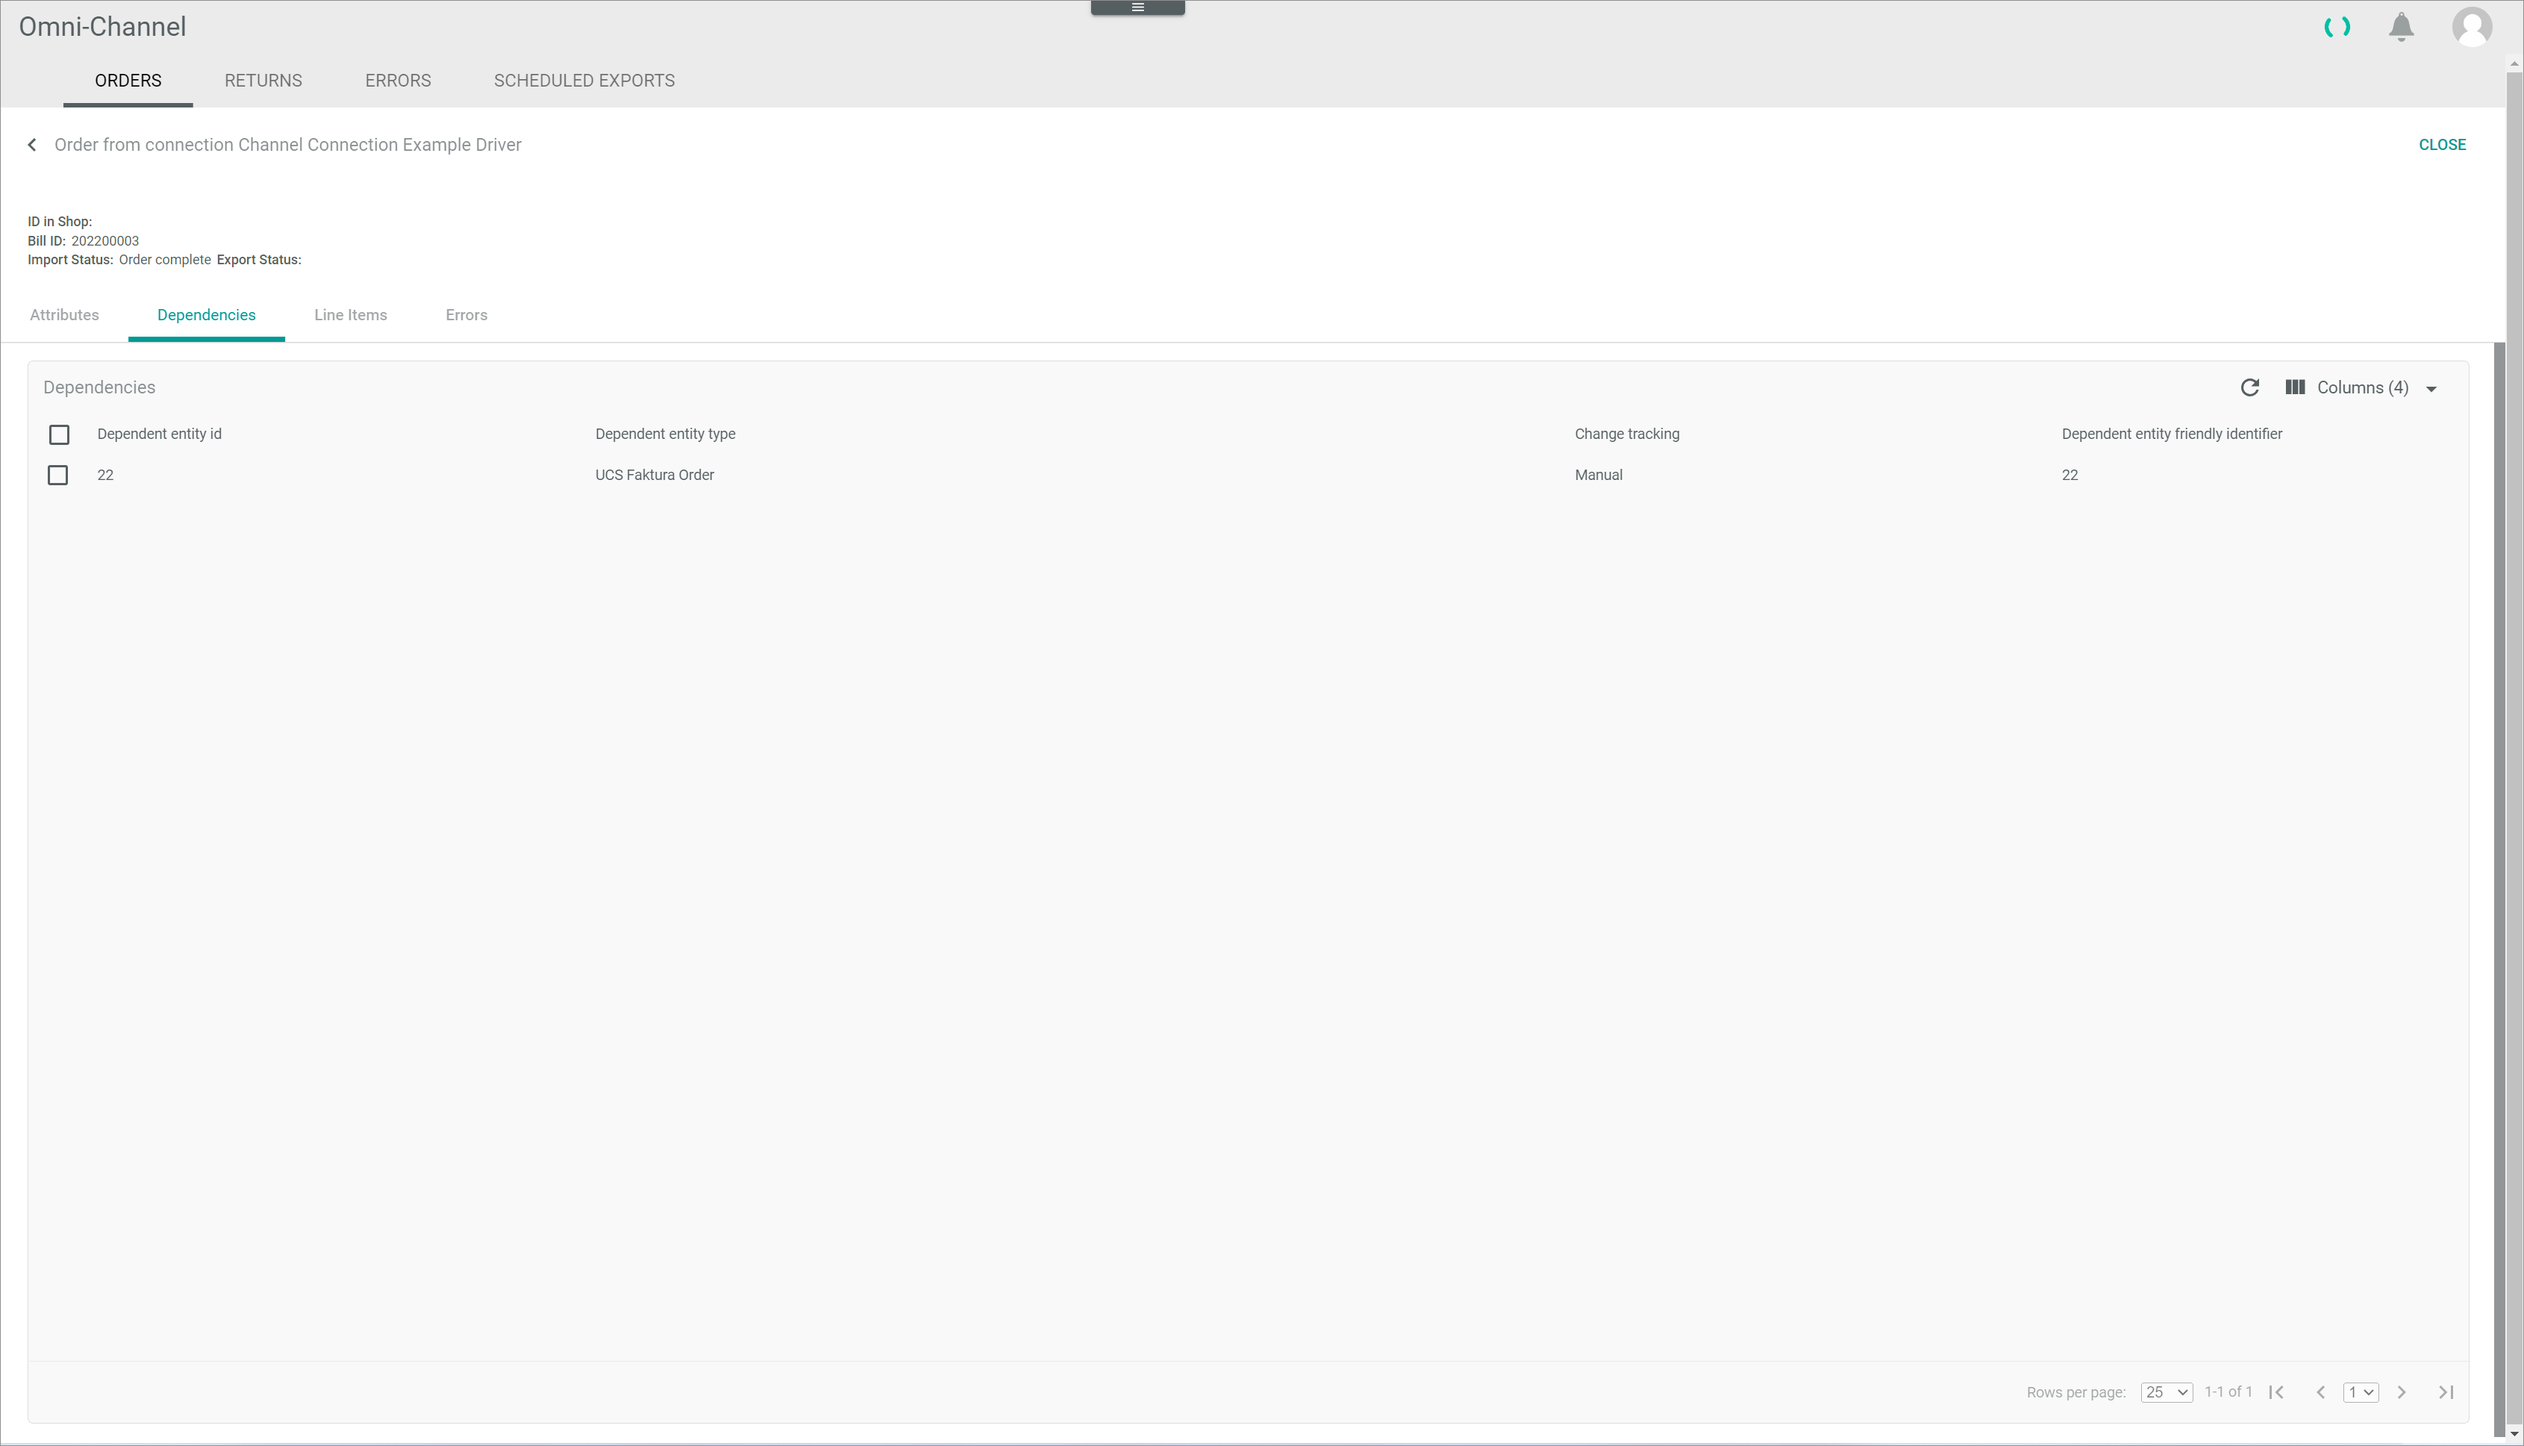
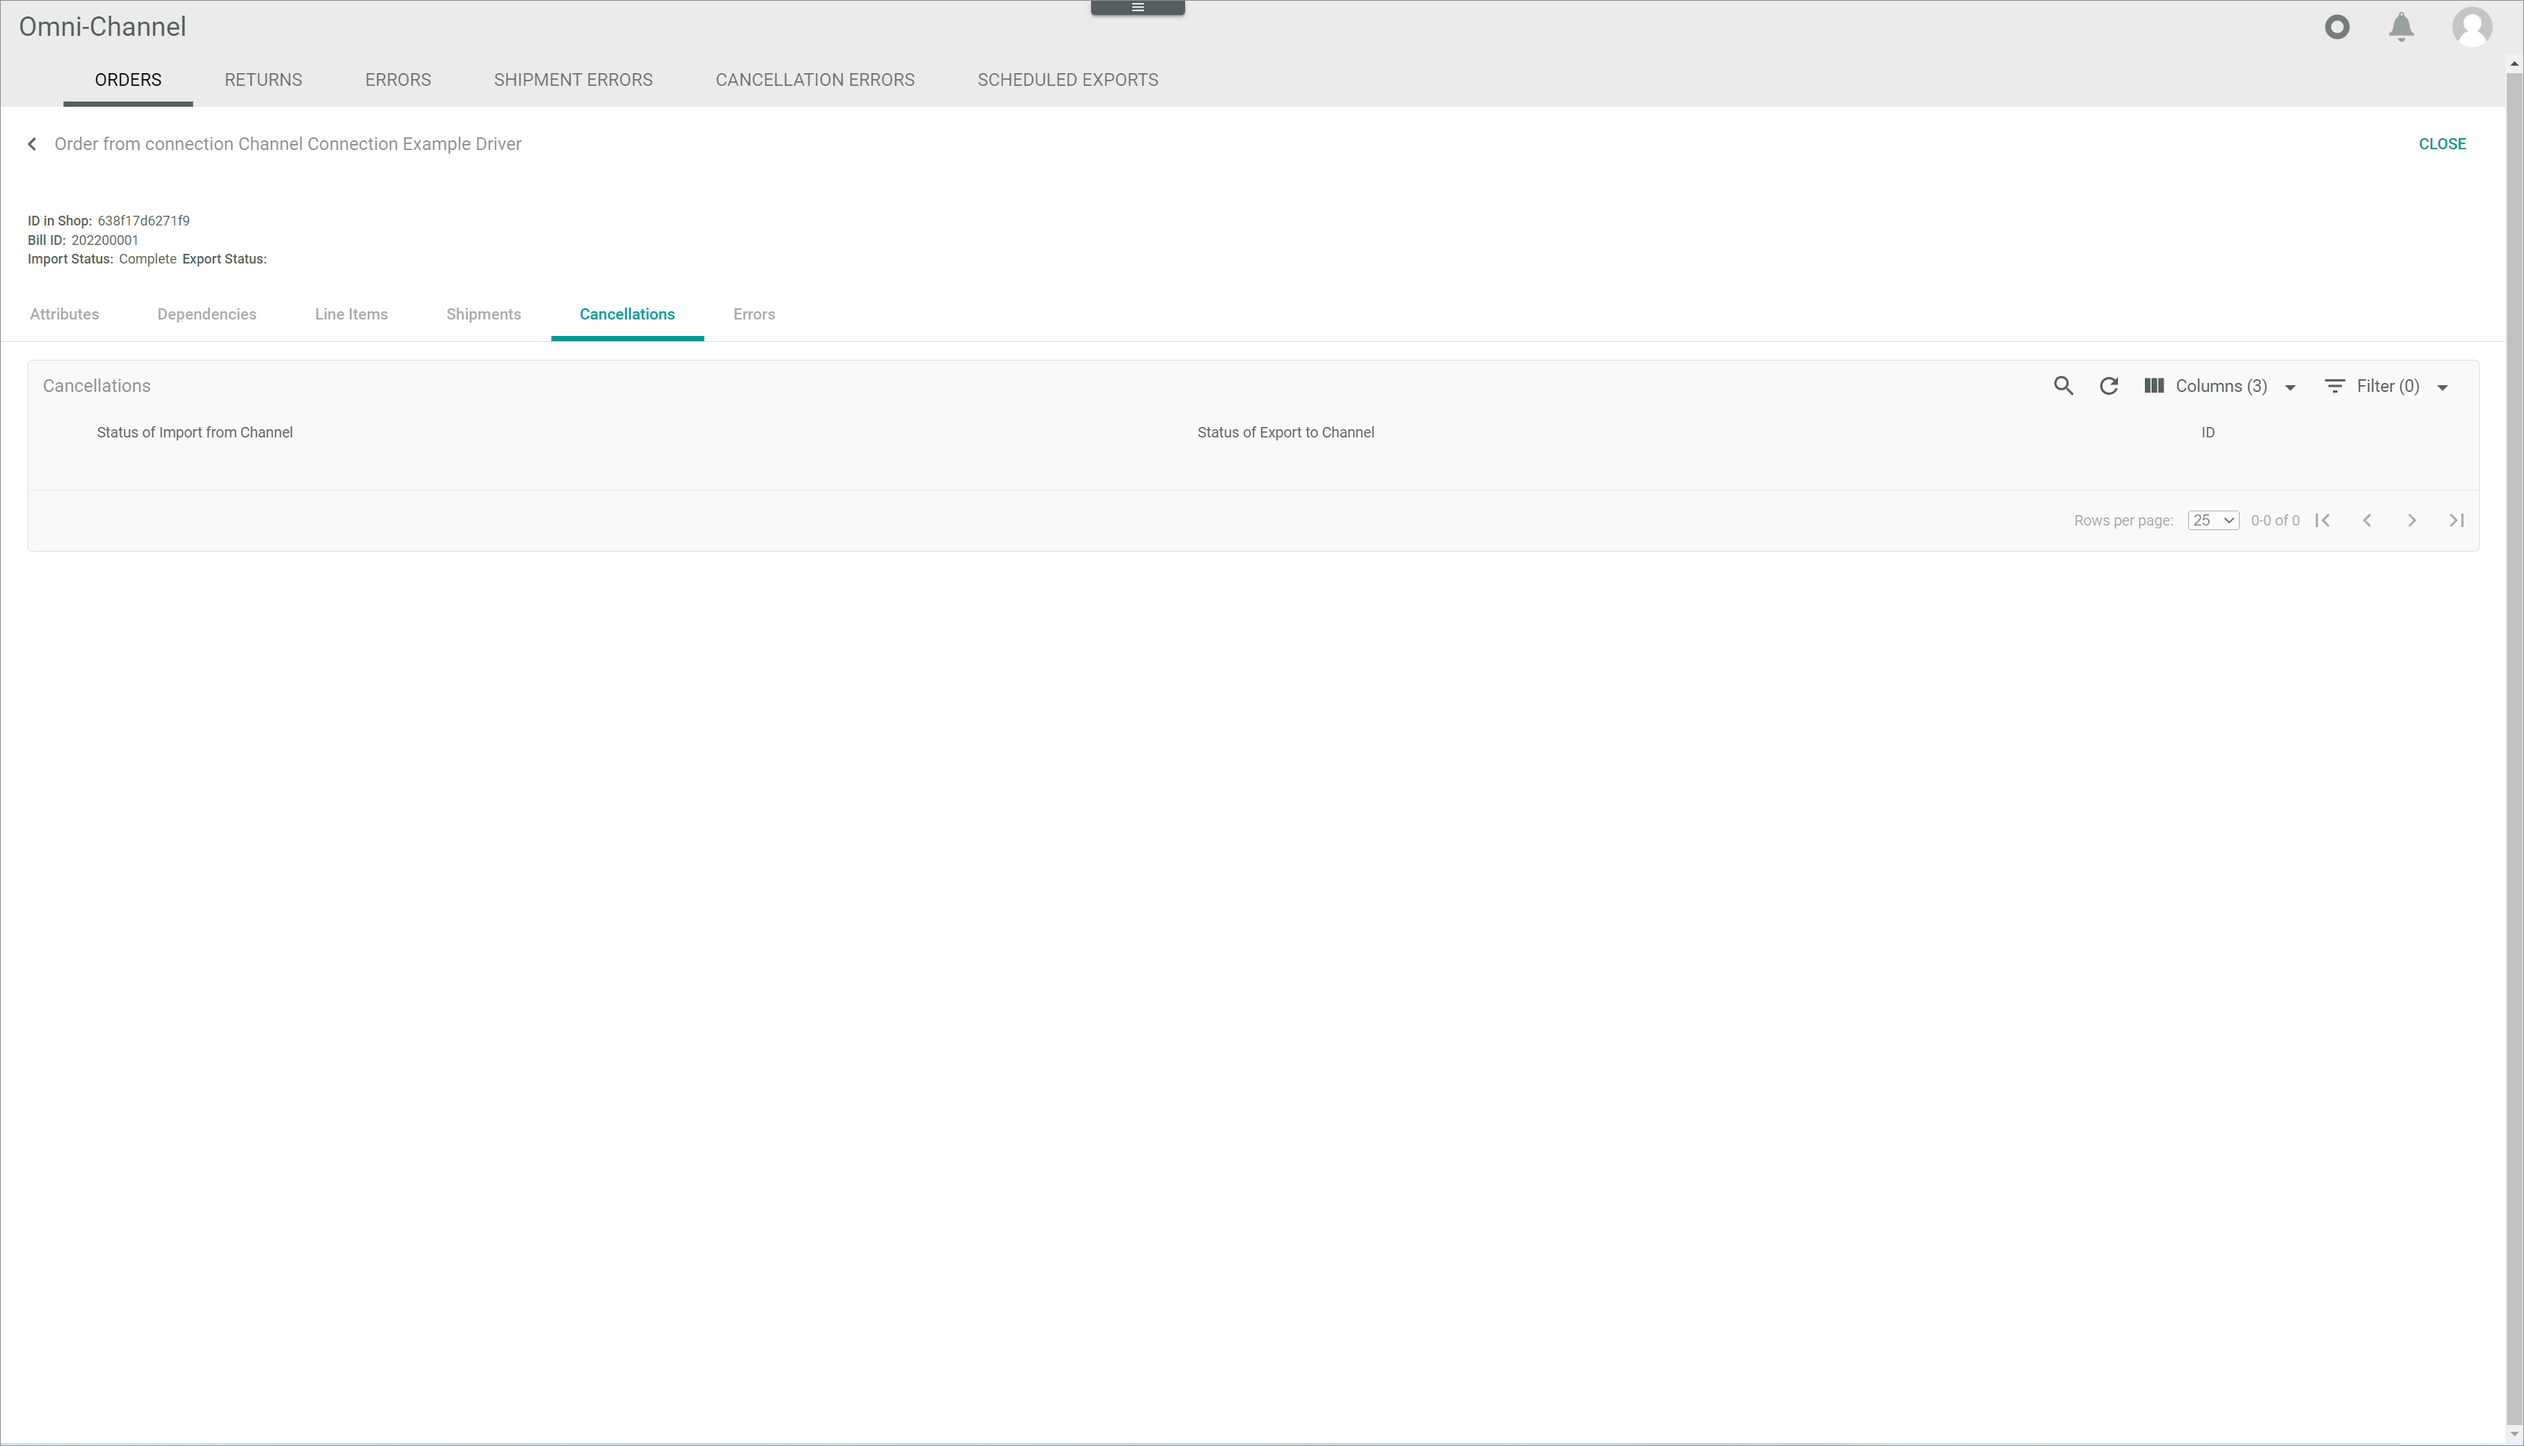
ACD-627
Screenshots added

diff --git a/Channels/UserInterface/05a_Orders.md b/Channels/UserInterface/05a_Orders.md
@@ -87,7 +87,7 @@
   Select the checkbox to display the editing toolbar. If you click the checkbox in the header, all orders in the list are selected.
 
 - [VIEW]  
-  Click this button to display the *Order from connection "Connection name"* view of the selected order. Alternatively, you can click directly a row in the list to edit the corresponding order. This button is only displayed if a single checkbox in the list of connections is selected.
+  Click this button to display the *Order from connection "Connection name"* view of the selected order. Alternatively, you can click directly a row in the list to view the corresponding order. This button is only displayed if a single checkbox in the list of connections is selected.
 
 - [EXPORT TO OMS]  
   Click this button to export the selected order(s) to the *Order management* module. This button is only displayed if the checkbox of at least one order is selected.
@@ -106,10 +106,14 @@ The list displays all orders, either for all connections or for the selected con
 
 - *Status of import from channel*   
   Status of the order import from the marketplace to the *Omni-Channel* module. The following options are available:  
-  - **Order complete**  
+  - **Not imported**  
+    The order import has not been performed.
+  - **Complete**  
     The order import has been successfully completed.   	
   - **Canceled**  
-    The order import has been canceled.
+    The order import has been canceled.  
+  - **Error**  
+    The order import has given an error.
 
 - *Status of export to channel*  
   Status of the order export from the *Omni-Channel* module to the marketplace. The following options are available:  
@@ -176,14 +180,17 @@ The list displays all orders, either for all connections or for the selected con
 - *Import status:*  
   Order import status from the marketplace to the *Omni-Channel* module. The following statuses are available:  
   - **Not imported**
-  - **Order complete**  
+  - **Complete**  
   - **Canceled**
   - **Error**
 
 - *Export status:*  
   Order export status from the *Omni-Channel* module to the  marketplace. The following statuses are available:  
+    - **Exported**
+    - **Being exported**  
+    - **Not exported: Pending > 30 minutes to OMS**  
     
-  [comment]: <> (Feld immer leer. Export to marketplace oder export to OMS gemeint?)
+  [comment]: <> (Feld immer/meistens leer hier, auch wenn in Order Liste Status angezeigt. Bezieht sich auf Status of Export to Channel oder Status of Export to OMS? Andere Möglichkeiten?)
 
 - [EXPORT TO OMS]  
   Click this button to export the order to the *Order management* module. This button is only displayed if the status in the *Status of export to OMS* column is **Not exported: Pending > 30 minutes to OMS**.
@@ -319,7 +326,8 @@ The list displays all dependencies of the selected order. Depending on the setti
   Select the checkbox to display the editing toolbar. You can only select one checkbox at a time. 
 
 - [VIEW]  
-  Click this button to display the *Line item* view of the selected line item. Alternatively, you can click directly a row in the list to edit the corresponding line item.
+  Click this button to display the *Line item* view of the selected line item. Alternatively, you can click directly a row in the list to view the corresponding line item.  This button is only displayed if a single checkbox in the list of line items is selected.
+
 
 The list displays all items of the selected order. Depending on the settings, the displayed columns may vary. All fields are read-only. 
 
@@ -421,11 +429,68 @@ The list displays all dependencies of the selected line item. Depending on the s
 [comment]: <> (what id number is that? How is it created?)
 
 
-
 ## Order from connection "Connection name" &ndash; Shipments
 
+*Omni-Channel > Orders and returns > Tab ORDERS > Select order > Tab Shipments*
 
-## Order from connection "Connection name" &ndash; Cancellation
+![Order connection shipments](../../Assets/Screenshots/Channels/OrdersReturns/Orders/OrderConnectionShipments.png "[Order connection shipments]")
+
+**Shipments**
+
+- ![Search](../../Assets/Icons/Search.png "[Search]") (Search)   
+  Click this button to display the search bar and search for an error.
+
+- ![Refresh](../../Assets/Icons/Refresh01.png "[Refresh]") (Refresh)   
+  Click this button to update the list of errors.
+
+- ![Columns](../../Assets/Icons/Columns.png "[Columns]") Columns (x)   
+  Click this button to display the columns bar and customize the displayed columns and the order of columns in the list. The *x* indicates the number of columns that are currently displayed in the list.
+
+- ![Filter](../../Assets/Icons/Filter.png "[Filter]") Filter (x)   
+  Click this button to display the filter bar and customize the active filters. The *x* indicates the number of filters that are currently active.
+
+- [x]     
+  Select the checkbox to display the editing toolbar. If you click the checkbox in the header, all errors in the list are selected.
+
+- [VIEW]  
+  Click this button to display the *Shipment for order* view of the selected shipment. Alternatively, you can click directly a row in the list to view the corresponding shipment. This button is only displayed if a single checkbox in the list of shipments is selected.
+
+The list displays all shipments to the selected order. Depending on the settings, the displayed columns may vary. All fields are read-only. 
+
+- *Status of import from channel*  
+  Status of the order import from the marketplace to the *Omni-Channel* module. The following options are available:  
+  - **Not imported**  
+    The order import has not been performed.
+  - **Complete**  
+    The order import has been successfully completed.   	
+  - **Canceled**  
+    The order import has been canceled.  
+  - **Error**  
+    The order import has given an error.
+
+- *Status of export to channel*  
+  Status of the order export from the *Omni-Channel* module to the marketplace. The following options are available:  
+  - **Exported**  
+    The order has been successfully exported.  
+  - **No changes to sync**  
+     There are no changes to synchronize.
+
+[comment]: <> (Check, ob es stimmt. Status bezieht sich auf Order oder Shipment? Andere Möglichkeiten?)
+
+- *ID*  
+  Shipment identification number. The ID number is automatically assigned by the system.
+
+- Attribute  
+  You can add a column for each attribute that is assigned to the shipment. The column displays the attribute name, the row displays the corresponding attribute value of the shipment.
+
+
+## Order from connection "Connection name" &ndash; Cancellations
+
+*Omni-Channel > Orders and returns > Tab ORDERS > Select order > Tab Cancellations*
+
+![Order connection cancellations](../../Assets/Screenshots/Channels/OrdersReturns/Orders/OrderConnectionCancellations.png "[Order connection cancellations]")
+
+**Cancellations**
 
 
 ## Order from connection "Connection name" &ndash; Errors

diff --git a/Channels/Integration/01d_Amazon.md b/Channels/Integration/01d_Amazon.md
@@ -39,12 +39,12 @@ Create the connection to an Amazon shop using the Amazon driver. Further setting
 4. In a new browser window, go to your Amazon Seller account and log in.   
   The amazon seller central start page is displayed.
 
-      ![Amazon seller profile](../../Assets/Screenshots/Channels/Settings/Connections/Amazon/AmazonSellerProfile.png "[Amazon seller profile]")
+      ![Amazon seller account](../../Assets/Screenshots/Channels/Settings/Connections/Amazon/AmazonSellerAccount.png "[Amazon seller account]")
 
 5. Click first the ![Settings](../../Assets/Icons/Settings03.png "[Settings]") (Settings) button in the upper right corner and then the *Account Info* menu entry.  
   The *Seller Account Information* window is displayed.
 
-    ![Seller account information](../../Assets/Screenshots/Channels/Settings/Connections/Amazon/SellerAccountInfo.png "[Seller account information]")
+    ![Seller account information](../../Assets/Screenshots/Channels/Settings/Connections/Amazon/SellerAccountInformation.png "[Seller account information]")
 
 6. Click the [Your Merchant Token] button in the *Business Information* section.  
   The *Merchant Token* window is displayed.
@@ -60,10 +60,14 @@ Create the connection to an Amazon shop using the Amazon driver. Further setting
 
     ![Actindo authorization](../../Assets/Screenshots/Channels/Settings/Connections/Amazon/ActindoAuthorization.png "[Actindo authorization]")
 
+[comment]: <> (Überhaupt notwendig? Das ist nur möglich beim Erstellen der Verbidung. Johannes fragen oder einfach lassen?)
+
 10. Select the *I request Amazon to grant Actindo access to my seller account and the corresponding data. I am responsible for all measures that may be taken by this application.* checkbox and click the [Confirm] button.    
   The *We authorize Actindo to access your seller details.* notice is displayed. As soon as the authorization has been completed, you are redirected to the *Actindo Core1 Platform*. If the authorization has been successful, the *Access token* field is filled in.
 
     ![Access token](../../Assets/Screenshots/Channels/Settings/Connections/Amazon/AccessToken.png "[Access token]")
+
+[comment]: <> (Überhaupt notwendig? Das ist nur möglich beim Erstellen der Verbidung. Johannes fragen oder einfach lassen?)
 
 11. Click the *Amazon marketplace* drop-down list and select the applicable marketplace.
     > [Info] Once the connection has been saved, the selected marketplace cannot be changed.
